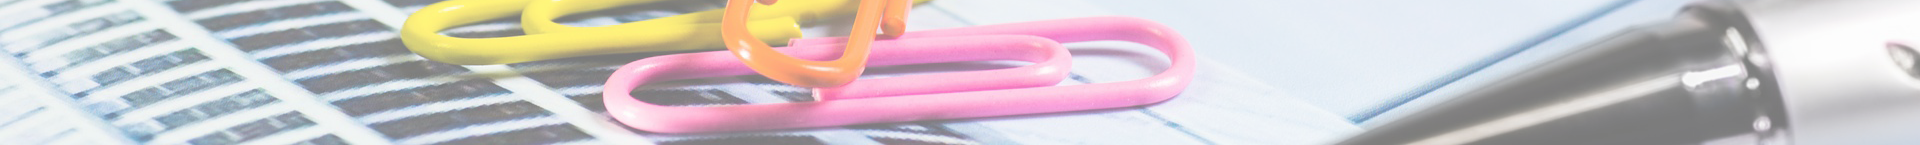
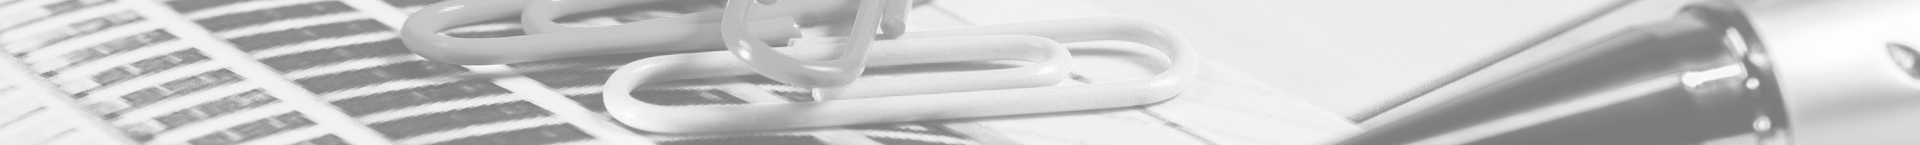
Add image to top of content except when is the home

diff --git a/app/assets/stylesheets/styles.css b/app/assets/stylesheets/styles.css
@@ -780,7 +780,7 @@ body{
 					width:100%;
 					}
 				#imageContent{
-					background:transparent url("assets/imageContent.png");
+					background:transparent url("assets/imageContent.png") no-repeat center top;
 				    float:left;
 				    height:9em;
 				    width:100%;
